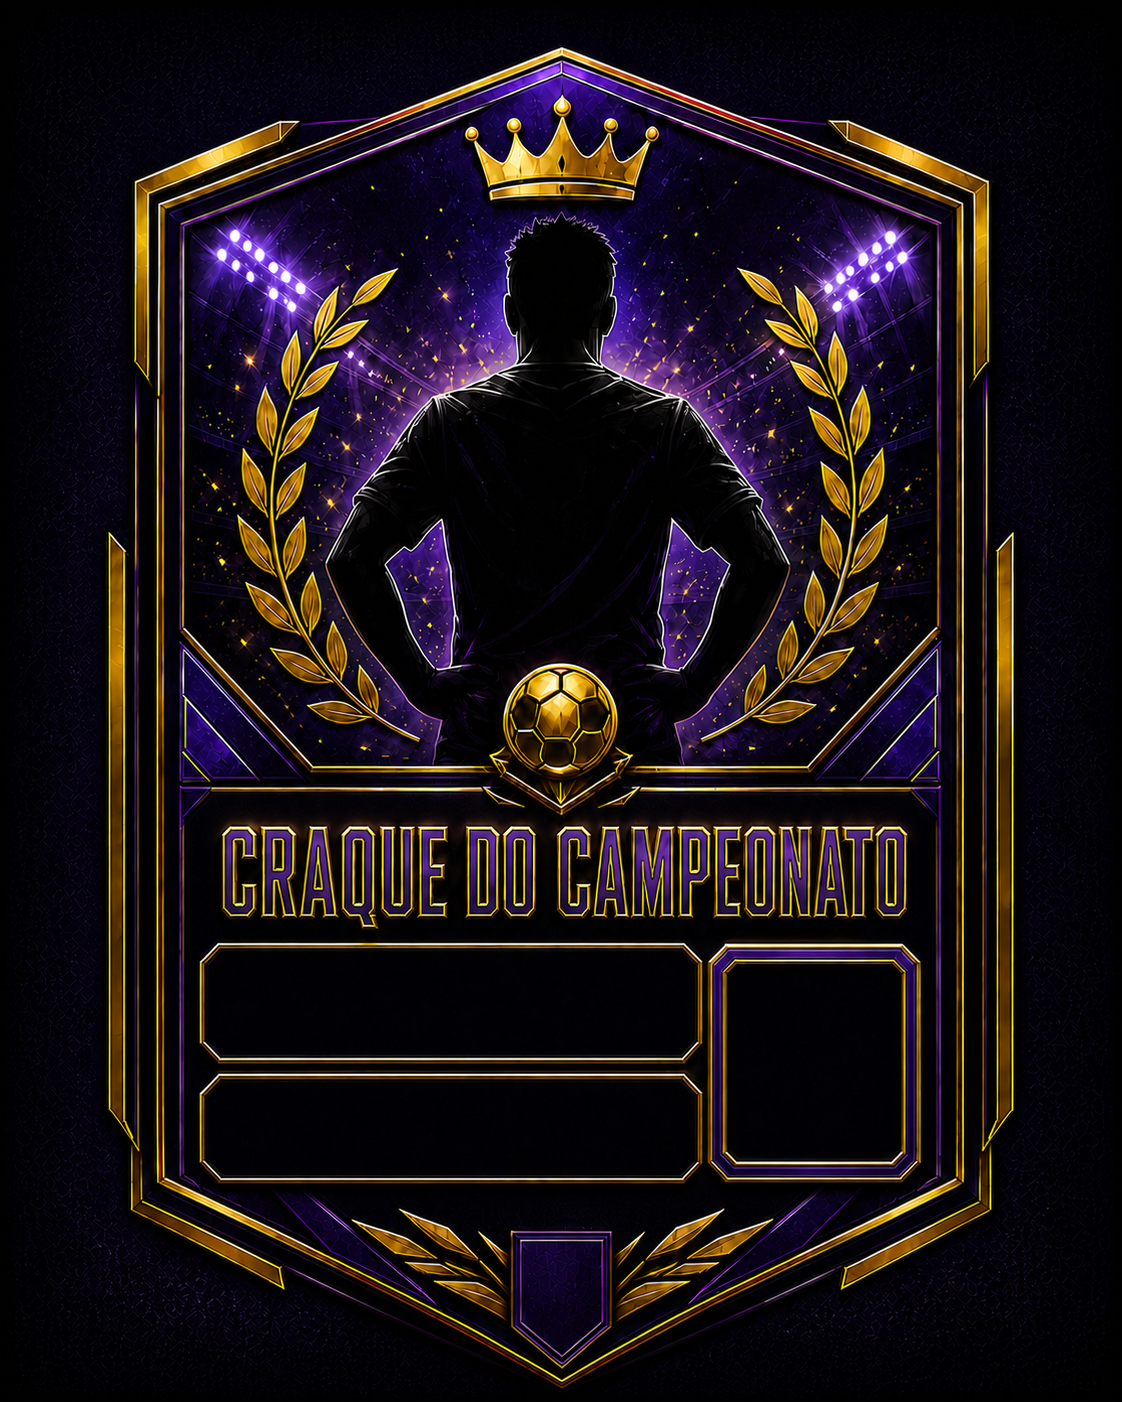
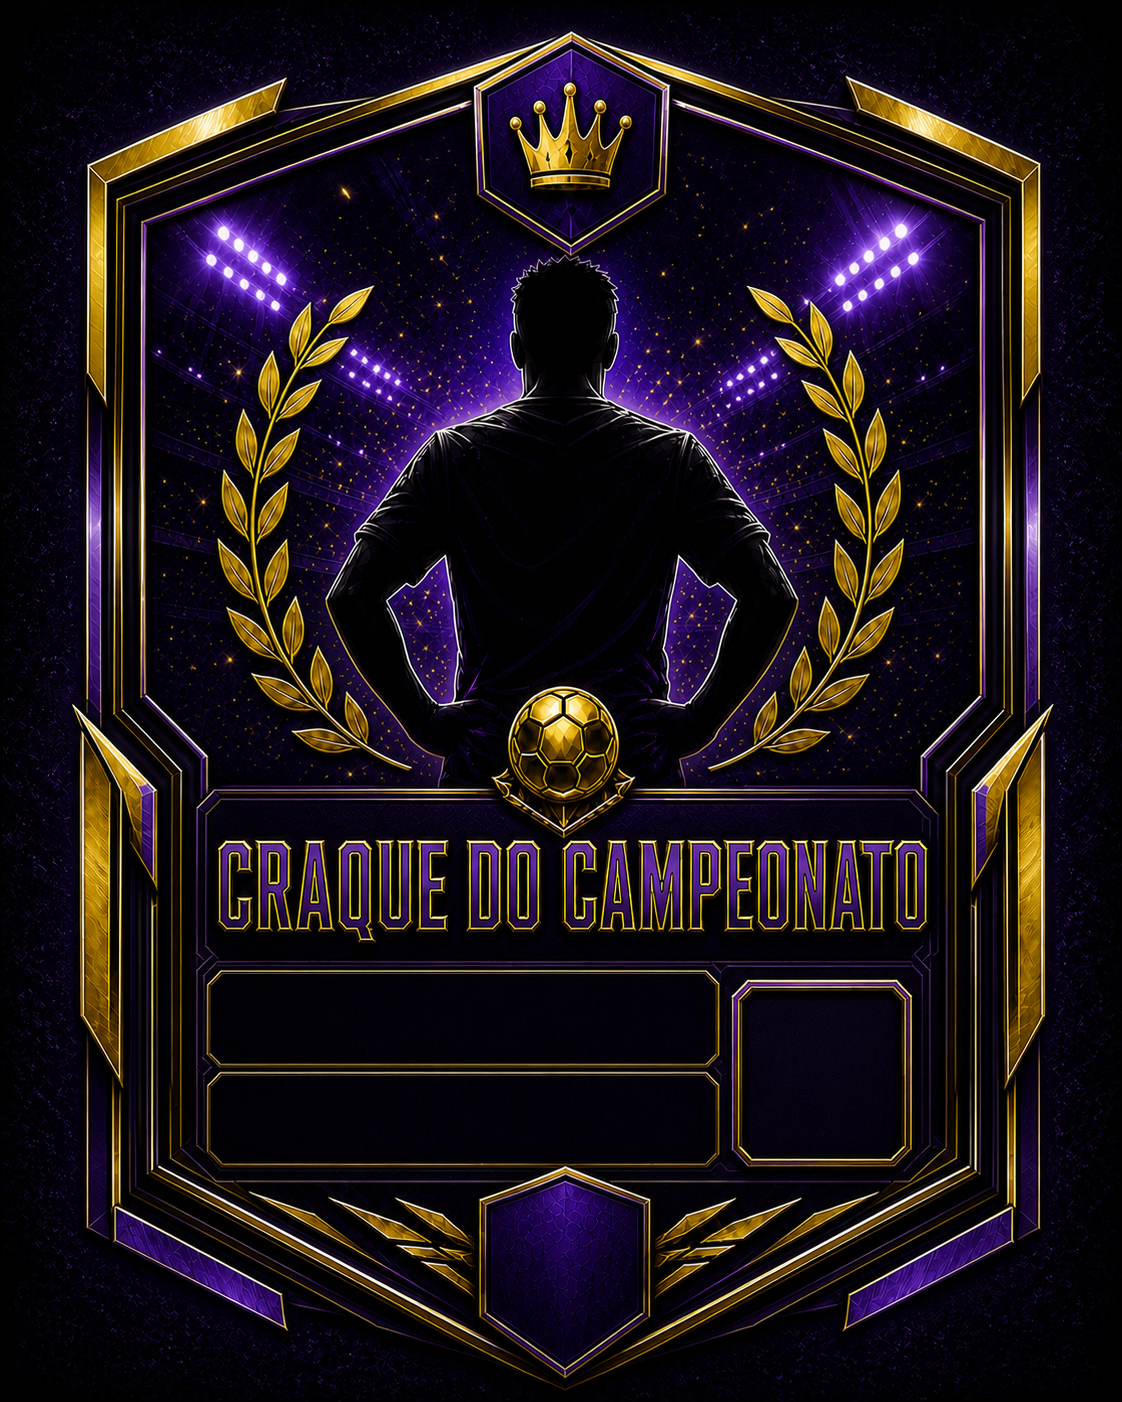
Unify tournament award card geometry

diff --git a/components/admin/award-card-studio.tsx b/components/admin/award-card-studio.tsx
@@ -31,6 +31,10 @@ export function AwardCardStudio() {
   const [tournamentUrl, setTournamentUrl] = useState("")
   const [qrPreview, setQrPreview] = useState("")
   const award = AWARDS[category]
+  const previewNick = (name.trim() || "Jogador").toUpperCase()
+  const previewValue = (value.trim() || "0").toUpperCase()
+  const nickScale = Math.min(1, 12 / Math.max(previewNick.length, 1))
+  const statScale = Math.min(1, 15 / Math.max(previewValue.length, 1))
 
   useEffect(() => { setTournamentUrl(`${window.location.origin}/dashboard/tournaments/exemplo`) }, [])
   useEffect(() => {
@@ -110,9 +114,9 @@ export function AwardCardStudio() {
       <div className="min-w-0">
         <div className="mb-2 flex items-center justify-between"><span className="text-[10px] font-black uppercase tracking-[0.16em] text-gray-500">Prévia real</span><span className="flex items-center gap-1 text-[10px] text-gray-600"><ExternalLink className="h-3 w-3" />4:5</span></div>
         <div className="relative mx-auto aspect-[4/5] w-full max-w-[440px] overflow-hidden rounded-2xl bg-black shadow-2xl ring-1 ring-white/10">
-          <img src={award.image} alt={`Template ${award.title}`} className="absolute inset-0 h-full w-full object-cover" />
-          <p className="absolute w-[52%] -translate-x-1/2 -translate-y-1/2 truncate bg-clip-text text-center text-[clamp(28px,4.5vw,40px)] leading-none tracking-[0.025em] text-transparent [font-family:'Anton',Impact,sans-serif] [-webkit-text-stroke:1px_rgba(0,0,0,.95)]" style={{ backgroundImage: "linear-gradient(180deg,#fff 0%,#aab2bd 44%,#fff 58%,#cbd5e1 100%)", filter: "drop-shadow(0 3px 2px #000)", left: `${award.nickX * 100}%`, top: `${award.nickY * 100}%` }}>{(name || "Jogador").toUpperCase()}</p>
-          <p className="absolute w-[52%] truncate bg-clip-text text-center text-[clamp(18px,3vw,25px)] leading-none tracking-[0.02em] text-transparent [font-family:'Anton',Impact,sans-serif] [-webkit-text-stroke:1px_rgba(0,0,0,.95)]" style={{ backgroundImage: `linear-gradient(180deg,${award.highlight} 0%,#fff 45%,${award.color} 100%)`, filter: "drop-shadow(0 3px 2px #000)", left: `${award.statX * 100}%`, top: `${award.statY * 100}%`, transform: `translate(-50%,-50%) scale(${award.statScale})` }}>{value || "0"}</p>
+          <img src={award.image} alt={`Template ${award.title}`} className="absolute inset-0 h-full w-full object-contain" />
+          <p className="absolute w-[52%] truncate bg-clip-text text-center text-[clamp(28px,4.5vw,40px)] leading-none tracking-[0.025em] text-transparent [font-family:'Anton',Impact,sans-serif] [-webkit-text-stroke:1px_rgba(0,0,0,.95)]" style={{ backgroundImage: "linear-gradient(180deg,#fff 0%,#aab2bd 44%,#fff 58%,#cbd5e1 100%)", filter: "drop-shadow(0 3px 2px #000)", left: `${award.nickX * 100}%`, top: `${award.nickY * 100}%`, transform: `translate(-50%,-50%) scale(${nickScale})` }}>{previewNick}</p>
+          <p className="absolute w-[52%] truncate bg-clip-text text-center text-[clamp(18px,3vw,25px)] leading-none tracking-[0.02em] text-transparent [font-family:'Anton',Impact,sans-serif] [-webkit-text-stroke:1px_rgba(0,0,0,.95)]" style={{ backgroundImage: `linear-gradient(180deg,${award.highlight} 0%,#fff 45%,${award.color} 100%)`, filter: "drop-shadow(0 3px 2px #000)", left: `${award.statX * 100}%`, top: `${award.statY * 100}%`, transform: `translate(-50%,-50%) scale(${statScale})` }}>{previewValue}</p>
           {qrPreview && <span className="absolute block aspect-square overflow-hidden" style={{ left: `${award.qrX * 100}%`, top: `${award.qrY * 100}%`, width: `${award.qrSize * 100}%` }}><img src={qrPreview} alt="QR Code do campeonato" className="h-full w-full" /></span>}
         </div>
       </div>

diff --git a/lib/award-card-config.ts b/lib/award-card-config.ts
@@ -1,10 +1,21 @@
+const SHARED_AWARD_LAYOUT = {
+  nickX: 0.405,
+  nickY: 0.715,
+  statX: 0.405,
+  statY: 0.79,
+  qrX: 0.652,
+  qrY: 0.686,
+  qrSize: 0.132,
+  textWidth: 0.43,
+} as const
+
 export const AWARD_CARD_CONFIG = {
-  artilheiro: { title: "ARTILHEIRO", value: "12 GOLS", image: "/images/awards/artilheiro-template.png?v=6", color: "#ffbd35", highlight: "#fff0b0", nickX: 0.41, nickY: 0.73, statX: 0.41, statY: 0.80, qrX: 0.655, qrY: 0.714, qrSize: 0.132, textWidth: 0.43, statScale: 1 },
-  garcom: { title: "GARÇOM", value: "9 ASSISTÊNCIAS", image: "/images/awards/garcom-template.png?v=6", color: "#38bdf8", highlight: "#d8f5ff", nickX: 0.41, nickY: 0.742, statX: 0.41, statY: 0.803, qrX: 0.655, qrY: 0.708, qrSize: 0.132, textWidth: 0.41, statScale: 0.9 },
-  craque: { title: "CRAQUE DO CAMPEONATO", value: "NOTA 9,2", image: "/images/awards/craque-template.png?v=6", color: "#f4c542", highlight: "#fff2a8", nickX: 0.40, nickY: 0.715, statX: 0.40, statY: 0.804, qrX: 0.655, qrY: 0.684, qrSize: 0.132, textWidth: 0.42, statScale: 1 },
-  maestro: { title: "MAESTRO", value: "184 PASSES CERTOS", image: "/images/awards/maestro-template.png?v=6", color: "#2dd4bf", highlight: "#c9fff7", nickX: 0.415, nickY: 0.72, statX: 0.415, statY: 0.805, qrX: 0.655, qrY: 0.687, qrSize: 0.132, textWidth: 0.42, statScale: 0.78 },
-  xerife: { title: "XERIFE", value: "31 DESARMES", image: "/images/awards/xerife-template.png?v=6", color: "#e2e8f0", highlight: "#ffffff", nickX: 0.41, nickY: 0.71, statX: 0.41, statY: 0.79, qrX: 0.652, qrY: 0.686, qrSize: 0.132, textWidth: 0.48, statScale: 0.92 },
-  muralha: { title: "MURALHA", value: "27 DEFESAS", image: "/images/awards/muralha-template.png?v=6", color: "#ef4444", highlight: "#ffc2c2", nickX: 0.41, nickY: 0.715, statX: 0.41, statY: 0.79, qrX: 0.652, qrY: 0.686, qrSize: 0.132, textWidth: 0.43, statScale: 0.94 },
+  artilheiro: { title: "ARTILHEIRO", value: "12 GOLS", image: "/images/awards/artilheiro-template.png?v=10", color: "#ffbd35", highlight: "#fff0b0", ...SHARED_AWARD_LAYOUT },
+  garcom: { title: "GARÇOM", value: "9 ASSISTÊNCIAS", image: "/images/awards/garcom-template.png?v=10", color: "#38bdf8", highlight: "#d8f5ff", ...SHARED_AWARD_LAYOUT },
+  craque: { title: "CRAQUE DO CAMPEONATO", value: "NOTA 9,2", image: "/images/awards/craque-template.png?v=10", color: "#f4c542", highlight: "#fff2a8", ...SHARED_AWARD_LAYOUT },
+  maestro: { title: "MAESTRO", value: "184 PASSES CERTOS", image: "/images/awards/maestro-template.png?v=10", color: "#2dd4bf", highlight: "#c9fff7", ...SHARED_AWARD_LAYOUT },
+  xerife: { title: "XERIFE", value: "31 DESARMES", image: "/images/awards/xerife-template.png?v=10", color: "#e2e8f0", highlight: "#ffffff", ...SHARED_AWARD_LAYOUT },
+  muralha: { title: "MURALHA", value: "27 DEFESAS", image: "/images/awards/muralha-template.png?v=10", color: "#ef4444", highlight: "#ffc2c2", ...SHARED_AWARD_LAYOUT },
 } as const
 
 export type AwardCardKey = keyof typeof AWARD_CARD_CONFIG
